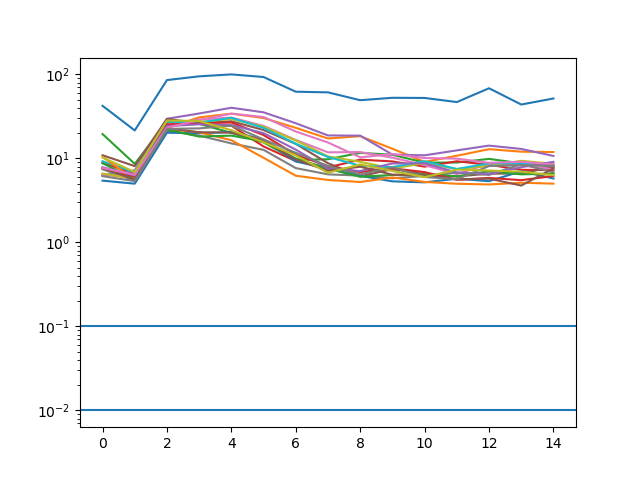
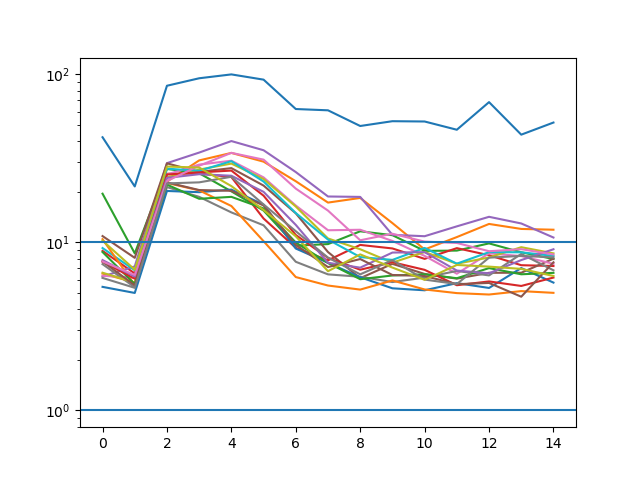
image

diff --git a/test.py b/test.py
@@ -917,8 +917,8 @@ def test_param_convergence(dataset):
         plt.plot(convergence)
 
     plt.yscale('log')
-    plt.axhline(1e-1)
-    plt.axhline(1e-2)
+    plt.axhline(1)
+    plt.axhline(10)
 
     plt.savefig('/home/erschultz/TICG-chromatin/figures/conv.png')
 
